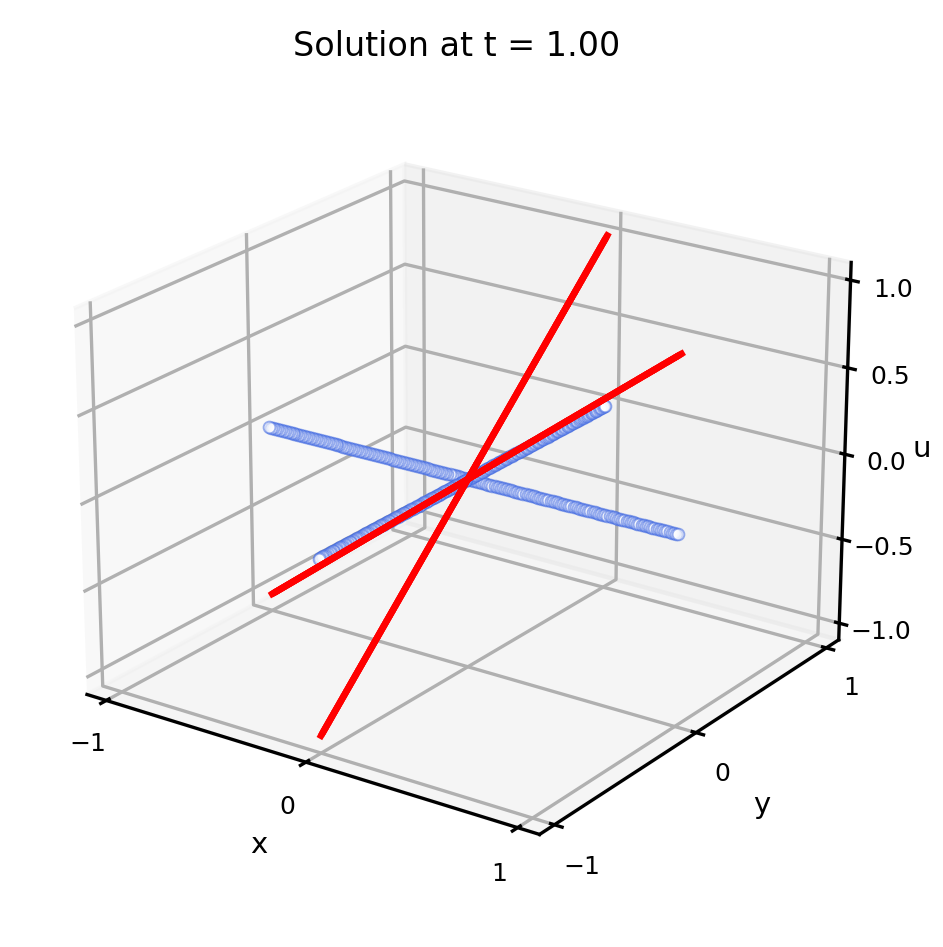
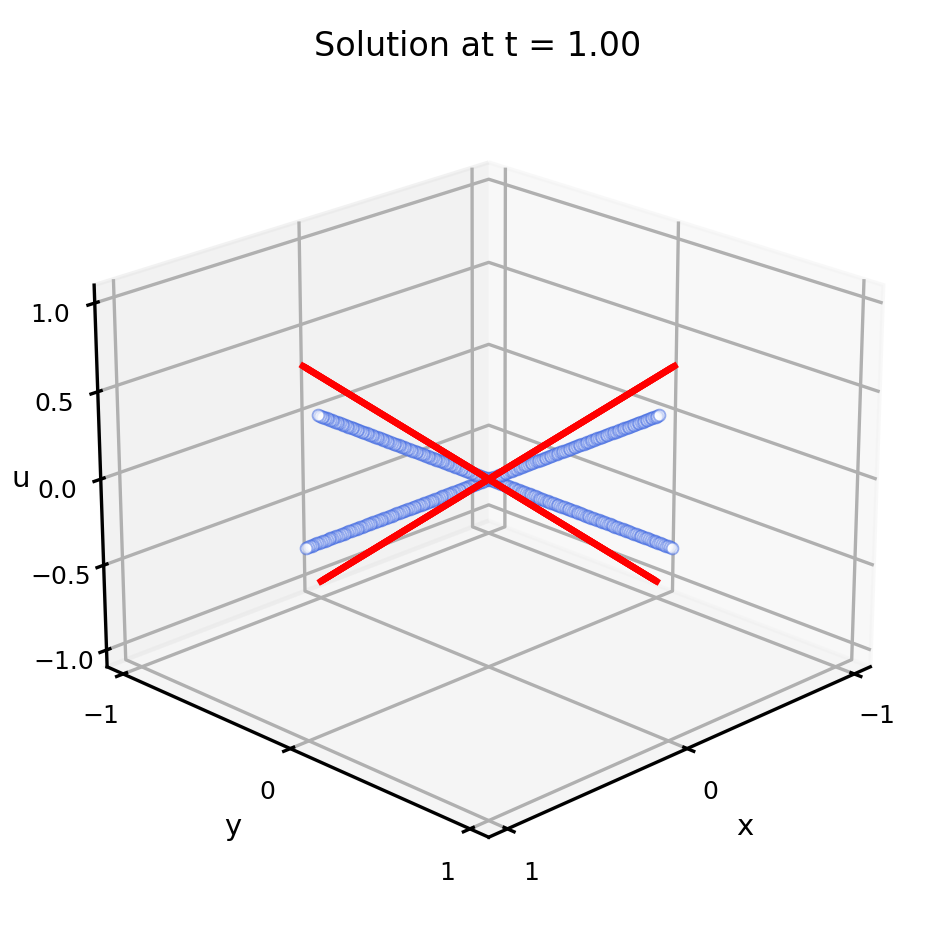
Turn the linear-solution view to the symmetric azimuth
The plotting script gains elevation and azimuth options with the
eigenmode defaults. At the shared azimuth one branch of u = x + y
projects almost flat; measuring the projected slopes of the two arms
across azimuths puts the mirror-symmetric view at azimuth 45, where
both branches read with apparent slope 0.61 of opposite sign, the
crossed-X picture of the reference report. The star linear figure is
regenerated there; the constant figure keeps the shared angle.

diff --git a/scripts/plot-star-solution.py b/scripts/plot-star-solution.py
@@ -57,6 +57,11 @@ def main():
     parser.add_argument("--title", default=None)
     parser.add_argument("--zlim", type=float, nargs=2, default=None)
     parser.add_argument("--ztick", type=float, default=1.0)
+    parser.add_argument("--elev", type=float, default=22.0)
+    parser.add_argument("--azim", type=float, default=-55.0,
+                        help="view azimuth; the eigenmode default hides "
+                             "slopes aligned with the screen iso-heights, "
+                             "rotate when the solution needs it")
     parser.add_argument("--output", type=Path, required=True)
     args = parser.parse_args()
 
@@ -96,7 +101,7 @@ def main():
     ax.tick_params(axis="both", labelsize=6, pad=-2)
     ax.tick_params(axis="z", labelsize=6, pad=-2)
     ax.grid(True, linewidth=0.22, alpha=0.22)
-    ax.view_init(elev=22, azim=-55)
+    ax.view_init(elev=args.elev, azim=args.azim)
     fig.tight_layout()
     args.output.parent.mkdir(parents=True, exist_ok=True)
     fig.savefig(args.output, dpi=300, bbox_inches="tight")
